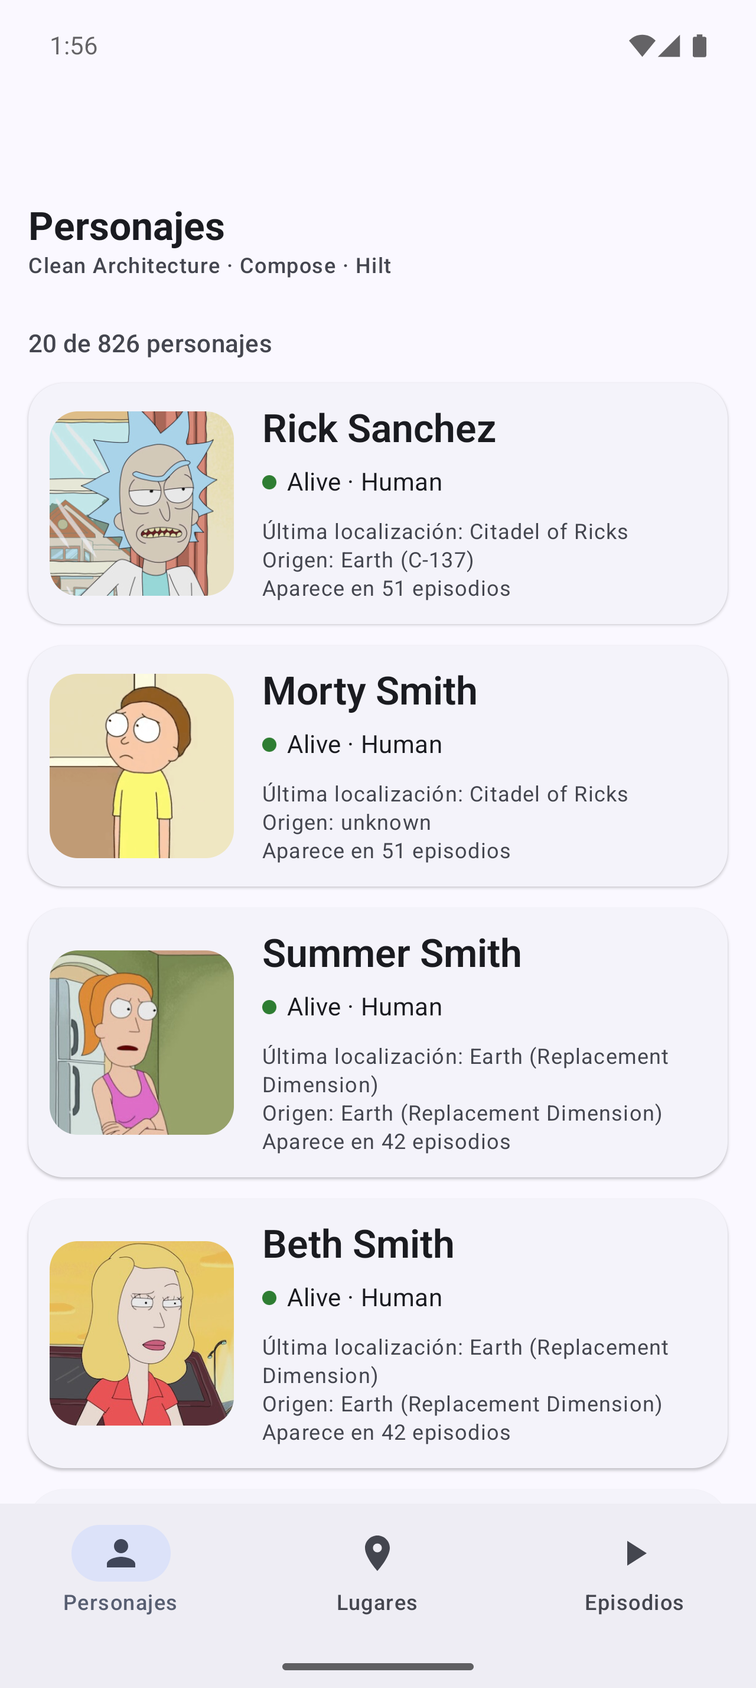
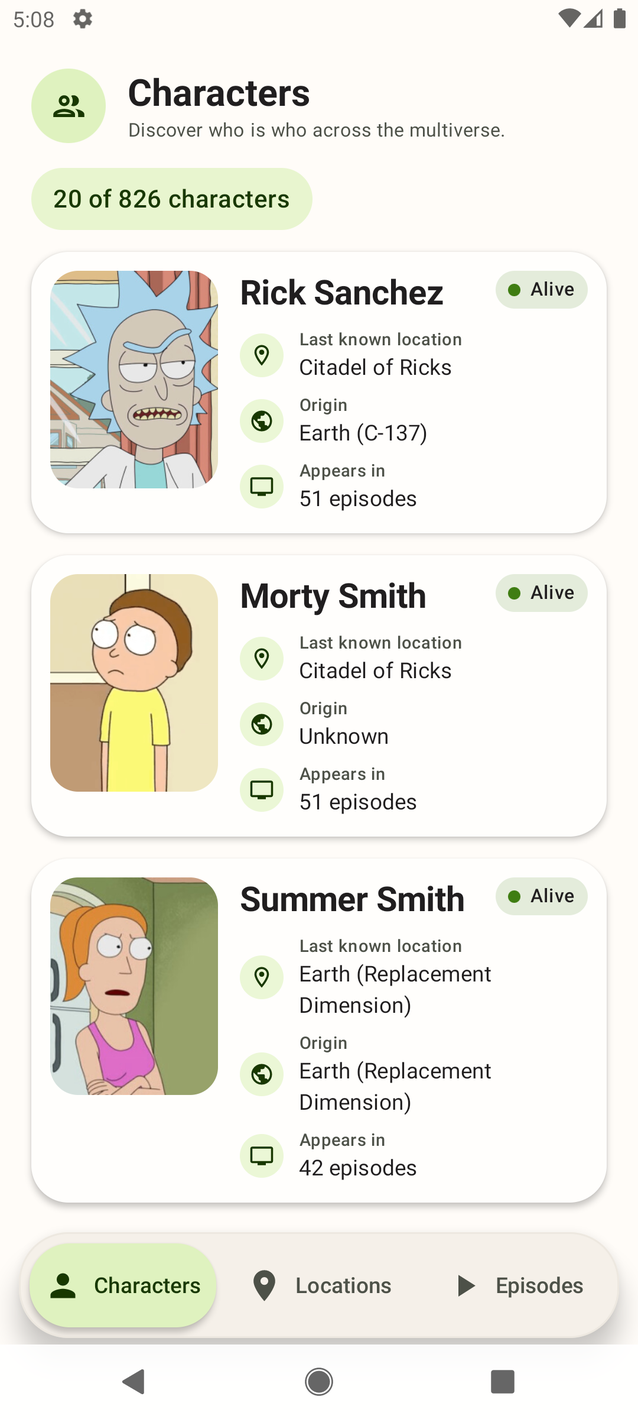
docs: align architecture testing and visual evidence

diff --git a/README.md b/README.md
@@ -5,7 +5,7 @@
 A modular Android reference implementation built with Kotlin and Jetpack Compose,
 focused on explicit boundaries, unidirectional data flow and testable architecture.
 
-[![Android CI](https://github.com/Deiivid/Clean_Arquitecture_Compose/actions/workflows/ci.yml/badge.svg)](https://github.com/Deiivid/Clean_Arquitecture_Compose/actions/workflows/ci.yml)
+[![Android CI](https://github.com/Deiivid/Android-Clean-Architecture-Sample/actions/workflows/ci.yml/badge.svg)](https://github.com/Deiivid/Android-Clean-Architecture-Sample/actions/workflows/ci.yml)
 ![Android API](https://img.shields.io/badge/Android-API_30--36-3DDC84?logo=android&logoColor=white)
 ![Kotlin](https://img.shields.io/badge/Kotlin-2.2.10-7F52FF?logo=kotlin&logoColor=white)
 ![Jetpack Compose](https://img.shields.io/badge/Jetpack_Compose-BOM_2026.06.01-4285F4?logo=jetpackcompose&logoColor=white)
@@ -28,9 +28,19 @@ focused on explicit boundaries, unidirectional data flow and testable architectu
     <td align="center"><strong>Locations</strong></td>
     <td align="center"><strong>Episodes</strong></td>
   </tr>
+  <tr>
+    <td><img src="docs/images/character-detail.png" width="260" alt="Character detail screen"></td>
+    <td><img src="docs/images/location-detail.png" width="260" alt="Location detail screen"></td>
+    <td><img src="docs/images/episode-detail.png" width="260" alt="Episode detail screen"></td>
+  </tr>
+  <tr>
+    <td align="center"><strong>Character detail</strong></td>
+    <td align="center"><strong>Location detail</strong></td>
+    <td align="center"><strong>Episode detail</strong></td>
+  </tr>
 </table>
 
-The app consumes the three catalog resources exposed by the public Rick and Morty API. Each destination owns its state, pagination and retry behavior while the bottom navigation preserves destination state.
+The app consumes the three catalog resources exposed by the public Rick and Morty API. Each destination owns its state, automatic pagination and retry behavior while route-based navigation preserves destination state. Selecting any character, location or episode opens a detail route from the already loaded model, without a second backend request.
 
 ## Why this repository exists
 
@@ -38,11 +48,14 @@ This project is intentionally small enough to understand and structured enough t
 
 - Pure Kotlin model and domain modules with no Android framework dependency.
 - Repository contracts owned by the domain and implemented in the data layer.
+- Typed `CatalogResult`/`CatalogError` failures instead of leaking exceptions across boundaries.
 - Stateless Compose screens driven by immutable `StateFlow` UI state.
-- Server pagination with duplicate-request protection, append errors and retry.
+- Automatic server pagination with duplicate-request protection, append errors and retry.
+- Route-based Navigation Compose with nested list/detail flows for every catalog.
 - Explicit DTO-to-domain mappers instead of leaking network models into the UI.
+- Spanish/English resource-backed copy, localized API values, large-text layouts and TalkBack semantics.
 - Environment-aware configuration without committing local credentials.
-- Automated unit, lint and assembly gates in GitHub Actions.
+- JVM, instrumented Compose, lint, static-analysis, formatting, coverage and assembly checks.
 - Design, testing and AI-agent instructions versioned with the code.
 
 ## Architecture
@@ -51,7 +64,7 @@ The dependency rule points inward. Domain code does not know Retrofit, Compose, 
 
 ```mermaid
 flowchart LR
-    APP[":app<br/>composition root"] --> FEATURES[":feature:*<br/>Compose + ViewModels"]
+    APP[":app<br/>composition root + routes"] --> FEATURES[":feature:*<br/>Compose + ViewModels"]
     APP --> DATA[":core:data<br/>repositories + network"]
     APP --> DOMAIN[":core:domain<br/>contracts + use cases"]
     FEATURES --> DOMAIN
@@ -68,7 +81,7 @@ The presentation layer follows unidirectional data flow:
 
 ```text
 UI event → ViewModel → Use case → Repository contract → Repository implementation → API
-   UI  ← immutable UiState ←──────────────────────────────────────────────────────┘
+   UI  ← immutable UiState ← CatalogResult<Page<Model>, CatalogError> ←───────────┘
 ```
 
 Every feature handles initial loading, content, empty results, initial errors, incremental loading and retry without moving business logic into Composables.
@@ -77,10 +90,10 @@ Every feature handles initial loading, content, empty results, initial errors, i
 
 | Module | Responsibility | Key dependencies |
 |---|---|---|
-| `:app` | Application entry point, navigation, theme and runtime configuration | Features, data, domain |
-| `:feature:characters` | Character list UI, state and pagination | Domain, model |
-| `:feature:locations` | Location list UI, state and pagination | Domain, model |
-| `:feature:episodes` | Episode list UI, state and pagination | Domain, model |
+| `:app` | Composition root, route graph, bottom navigation, theme and runtime configuration | Features, data, domain |
+| `:feature:characters` | Character list/detail UI, state, pagination and accessibility semantics | Domain, model |
+| `:feature:locations` | Location list/detail UI, state, pagination and accessibility semantics | Domain, model |
+| `:feature:episodes` | Episode list/detail UI, state, pagination and accessibility semantics | Domain, model |
 | `:core:domain` | Repository contracts and use cases | Model only |
 | `:core:model` | Framework-free business entities | None |
 | `:core:data` | Retrofit service, DTOs, mappers, repositories and Hilt bindings | Domain, model |
@@ -94,19 +107,20 @@ Every feature handles initial loading, content, empty results, initial errors, i
 | Locations | `/location` | Paginated list with type and dimension metadata |
 | Episodes | `/episode` | Paginated list with code and air-date metadata |
 
-Failures cross the data boundary as `Result`; they are represented explicitly in UI state and never silently converted into an empty list.
+Failures cross the data boundary as `CatalogResult<Page<T>, CatalogError>`. Connectivity, HTTP, serialization and unexpected failures are finite domain values; coroutine cancellation is rethrown. Presentation receives typed errors, never raw exceptions, and never silently converts a failure into an empty list.
 
 ## Technology
 
 | Area | Selection |
 |---|---|
 | Language and runtime | Kotlin 2.2.10, Java 17 |
-| UI | Jetpack Compose, Material 3, Compose BOM 2026.06.01 |
+| UI and navigation | Jetpack Compose, Material 3, Navigation Compose 2.9.8, Compose BOM 2026.06.01 |
 | State and concurrency | ViewModel, StateFlow, Coroutines 1.11.0 |
 | Dependency injection | Hilt 2.60.1, KSP 2.3.10 |
 | Network | Retrofit 3.0.0, OkHttp 5.4.0, Gson |
 | Images | Coil 3.4.0 |
-| Testing | JUnit 4, Turbine, Coroutines Test, MockWebServer |
+| Testing | JUnit 4, Turbine, Coroutines Test, MockWebServer, Compose UI Test |
+| Quality | Android Lint, Detekt 1.23.8, KtLint Gradle 14.2.0, Kover 0.9.8 |
 | Build | AGP 9.0.0, Gradle 9.1.0, Android SDK 30–36 |
 
 The project uses AGP's built-in Kotlin support and the centralized Gradle version catalog at [`gradle/libs.versions.toml`](gradle/libs.versions.toml).
@@ -122,8 +136,8 @@ The project uses AGP's built-in Kotlin support and the centralized Gradle versio
 ### Build
 
 ```bash
-git clone https://github.com/Deiivid/Clean_Arquitecture_Compose.git
-cd Clean_Arquitecture_Compose
+git clone https://github.com/Deiivid/Android-Clean-Architecture-Sample.git
+cd Android-Clean-Architecture-Sample
 ./gradlew assembleDebug
 ```
 
@@ -168,10 +182,21 @@ This prevents accidental source-control exposure; it does not make values embedd
 The local and CI verification command is:
 
 ```bash
-./gradlew test lintDebug assembleDebug --warning-mode all
+./gradlew test lintDebug detekt ktlintCheck :koverVerify assembleDebug --warning-mode all
 ```
 
-The JVM suite currently verifies credential-header behavior, use-case delegation, initial ViewModel state and character pagination. GitHub Actions runs the same tests plus Android lint and a debug assembly on every push and pull request.
+The repository currently contains 52 JVM test cases and 11 instrumented Compose test cases. JVM coverage includes use-case delegation, complete DTO mapping, real Retrofit malformed/truncated responses, typed repository failures, cancellation propagation, credentials, save/restore round trips and every ViewModel transition for the three catalogs. Compose tests cover actionable grouped semantics, live-region loading announcements, bottom-navigation selection and its large-text/compact-width adaptations.
+
+Instrumented tests require a connected device or emulator and remain separate from the headless CI gate:
+
+```bash
+./gradlew :app:connectedDebugAndroidTest \
+  :feature:characters:connectedDebugAndroidTest \
+  :feature:locations:connectedDebugAndroidTest \
+  :feature:episodes:connectedDebugAndroidTest
+```
+
+Kover enforces a 60% minimum over an explicit application-logic scope: domain, data mappers/repositories, the credentials interceptor, feature UI-state models and ViewModels. Generated code, resources, themes and Compose screen rendering are excluded; UI behavior is verified separately with instrumented Compose tests. GitHub Actions runs the full headless gate and `secretsStatus` on every push and pull request.
 
 Engineering decisions are kept next to the implementation:
 
@@ -181,6 +206,6 @@ Engineering decisions are kept next to the implementation:
 
 ## Deliberate scope
 
-This reference focuses on modular architecture, remote catalogs, pagination, configuration and testability. It does not claim offline persistence, search, detail screens, user authentication or production credential storage.
+This reference focuses on modular architecture, remote catalogs, typed failures, pagination, route navigation, accessible Compose UI, configuration and testability. It does not claim offline persistence, search/filtering, user authentication, deep-link restoration of catalog details or production credential storage.
 
 Data is provided by the [Rick and Morty API](https://rickandmortyapi.com/). This educational project is not affiliated with the API or the television series.

diff --git a/docs/testing/TDD-rick-and-morty-catalog.md b/docs/testing/TDD-rick-and-morty-catalog.md
@@ -1,6 +1,6 @@
 # TDD — Rick and Morty catalog
 
-Test Design Document for [SDD version 1.0](../specs/SDD-rick-and-morty-catalog.md). Development follows the test-first loop: reproduce or specify a failing behavior, implement the smallest change, then refactor while the suite remains green.
+Test Design Document for [SDD version 1.3](../specs/SDD-rick-and-morty-catalog.md). Development follows the test-first loop: reproduce or specify a failing behavior, implement the smallest change, then refactor while the suite remains green.
 
 ## Test strategy
 
@@ -15,30 +15,59 @@ No test may assert, snapshot or print a real credential value.
 
 | Criterion | Evidence | Module | Current status |
 |---|---|---|---|
-| `AC-001` | Navigate all destinations; verify resource content | `app` + features | Manual smoke |
-| `AC-002` | ViewModel loading/content tests; add empty/error cases | `feature:*` | Partial automation |
-| `AC-003` | Failure followed by `retry()` requests page 1 again | `feature:*` | Planned |
-| `AC-004` | Append next page and reject duplicate/end-of-list loads | `feature:*` | Characters automated; others partial |
-| `AC-005` | Load-more failure preserves content and marks retry state | `feature:*` | Planned |
+| `AC-001` | Navigate all destinations; verify resource content | `app` + features | Feature states automated; API 30 real-backend smoke passed |
+| `AC-002` | Loading resolves to content, empty or typed error | `feature:*` | Automated for all three ViewModels |
+| `AC-003` | Failure followed by `retry()` requests page 1 again | `feature:*` | Automated for all three ViewModels |
+| `AC-004` | Append next page and reject duplicate/end-of-list loads | `feature:*` | Automated for all three ViewModels |
+| `AC-005` | Load-more failure preserves content and marks retry state | `feature:*` | Automated for all three ViewModels |
 | `AC-006` | Present and blank credential header cases | `core:data` | Automated |
 | `AC-007` | Header redaction review; Gradle tasks report names/sources only | `core:data` + build | Automated plus review |
 | `AC-008` | Unit tests, lint and debug assembly | whole project | CI gate |
+| `AC-009` | Tap a character, verify its fields and back navigation | `feature:characters` + `app` | Card action automated; API 30 detail/back smoke passed |
+| `AC-010` | Data-boundary error mapping and cancellation propagation tests | `core:data` + `core:domain` | Automated |
+| `AC-011` | Switch destinations and verify selected route/state restoration | `app` | Selection and model saver round trips automated; API 30 route restoration smoke passed |
+| `AC-012` | Assert grouped item semantics and announced state descriptions | `feature:*` | Grouping/loading automated; API 30 error/retry smoke passed |
+| `AC-013` | Detekt, formatting, coverage verification and assembly | whole project | CI gate |
+| `AC-014` | Scroll near the end and verify automatic, idempotent pagination | `feature:*` | ViewModel automation; API 30 pagination smoke passed |
+| `AC-015` | Open location and episode details, verify fields and back restoration | `feature:*` + `app` | Card actions automated; API 30 detail/back smoke passed |
+| `AC-016` | Verify artwork IDs 1–126 are unique resources and observe the header marker at two animation frames | `feature:locations` | Resolver automation plus API 30 visual smoke |
+| `AC-017` | Scroll each catalog, reselect its active bottom-navigation item and verify the first item is restored | `app` + `feature:*` | API 30 interaction smoke |
+| `AC-018` | Open Alive, Dead and Unknown character details; capture two frames and verify distinct status effects without portrait occlusion or layout movement | `feature:characters` | Status mapping automated plus API 30 visual smoke |
+| `AC-019` | Verify all detail backgrounds cover the viewport and portrait overrides resolve ahead of list artwork | `feature:locations` | Resolver automation plus API 30 visual smoke |
+| `AC-020` | Open a location detail and verify the centered framed header, title placement and lack of overlap | `feature:locations` | API 30 visual smoke |
 
 ## Required test cases for new resource behavior
 
-- Use case delegates the requested page and returns the repository `Result` unchanged.
+- Use case delegates the requested page and returns the repository `CatalogResult` unchanged.
 - Mapper converts every backend field used by the domain model and pagination metadata.
-- Repository wraps HTTP or mapping failures in `Result.failure`.
+- Repository classifies connectivity, HTTP, serialization and unexpected failures without swallowing cancellation.
 - ViewModel covers initial content, empty, error, retry, next page, duplicate next-page request, last page and load-more failure.
 - Screen semantics expose retry/action labels and stable list identity.
+- Root navigation derives selection from the active route and restores destination state.
+- Large-font and dark-theme previews cover every catalog and detail screen.
 
 ## CI gate
 
 ```bash
-./gradlew test lintDebug assembleDebug --warning-mode all
+./gradlew test lintDebug detekt ktlintCheck :koverVerify assembleDebug --warning-mode all
 ```
 
 CI must also run `secretsStatus` to prove configuration wiring without requiring credentials on pull requests from forks.
+
+Kover verifies at least 60% line coverage over the configured application-logic scope: domain, data mappers/repositories, the credentials interceptor, feature UI-state models and ViewModels. Generated code, resources, themes and Compose screen rendering are excluded deliberately; instrumented UI tests provide separate evidence.
+
+## Instrumented Compose gate
+
+With a connected device or emulator:
+
+```bash
+./gradlew :app:connectedDebugAndroidTest \
+  :feature:characters:connectedDebugAndroidTest \
+  :feature:locations:connectedDebugAndroidTest \
+  :feature:episodes:connectedDebugAndroidTest
+```
+
+These tests verify bottom-navigation selection and its large-text/compact-width adaptations, actionable grouped catalog semantics and polite loading announcements. They do not replace the real-backend and interruption scenarios below.
 
 ## Emulator smoke checklist
 
@@ -46,7 +75,35 @@ CI must also run `secretsStatus` to prove configuration wiring without requiring
 - API 36: repeat navigation and pagination; verify edge-to-edge layout.
 - Disable network: verify initial error and retry.
 - Interrupt page 2: verify page 1 remains visible and retry succeeds.
+- Open a character, verify every displayed field, press back and verify the list and bottom navigation are restored.
+- Scroll each catalog to its end and verify the next page loads without a manual button.
+- Open a location and an episode, verify their detail fields, then press back and verify list restoration.
+- Scroll through locations, verify that all 126 identifiers resolve to distinct artwork, and capture the header marker at two animation frames without layout movement.
+- Scroll each catalog away from the header, press its selected bottom-navigation item again and verify a smooth return to the first item.
+- Open Alive, Dead and Unknown character details and verify their live, stopped and quantum biometric animations at two frames without portrait occlusion.
+- Open representative portrait and landscape-backed location details; verify edge-to-edge coverage, sharp filtering and readable overlays.
+- Open a location detail and verify the centered framed header remains separate from the back action, with the location name directly below and no overlap.
+- Enable a large system font and dark theme: verify list/detail readability, touch targets and that no content is clipped.
 
 ## Evidence record
 
 For each release or architectural change record the command/device, result, failing test if any and the affected `AC-*` identifiers. Never replace missing evidence with an assumption.
+
+### 2026-07-20 — `emulator-5556`, Android 11 (API 30)
+
+- PASS: debug installation, all three destinations and real-backend content (`AC-001`).
+- PASS: character, location and episode list → detail → back, preserving the selected destination (`AC-009`, `AC-011`, `AC-015`).
+- PASS: automatic pagination from 20 to 60 characters and from 20 to 51 episodes; transient append failure recovered through retry (`AC-004`, `AC-005`, `AC-014`).
+- PASS: offline initial state exposed a specific error and retry restored the first 20 characters (`AC-003`, `AC-012`).
+- PASS: Alive, Dead and Unknown character details rendered distinct animated biometric states without covering the portrait or moving the layout (`AC-018`).
+- PASS: all 126 location backgrounds resolved with high-quality full-viewport rendering; Hideout Planet used its dedicated portrait asset on API 30 (`AC-019`).
+- PASS: location detail rendered its centered framed header and location name directly below without overlap (`AC-020`).
+- PASS: zero package crashes, FATAL entries or ANRs in Logcat.
+- Pending: repeat the platform smoke test on API 36, including edge-to-edge, large-font and dark-theme checks.
+
+### 2026-07-21 — `emulator-5556`, Android 11 (API 30)
+
+- PASS: all 52 JVM tests and 11 instrumented Compose tests completed successfully (`AC-013`).
+- PASS: all 126 location identifiers resolve to distinct themed artwork resources (`AC-016`).
+- PASS: the header marker moves vertically between captured frames while the title, count and list remain fixed (`AC-016`).
+- PASS: reselecting Characters, Locations or Episodes after scrolling restores the corresponding header (`AC-017`).

diff --git a/docs/specs/SDD-rick-and-morty-catalog.md b/docs/specs/SDD-rick-and-morty-catalog.md
@@ -5,7 +5,7 @@ Software Design Document. This is the source of truth for product behavior and a
 | Field | Value |
 |---|---|
 | Status | Implemented |
-| Version | 1.0 |
+| Version | 1.3 |
 | Platforms | Android API 30–36 |
 | Backend | Rick and Morty REST API |
 | Owner | Repository maintainers |
@@ -17,7 +17,7 @@ Provide a backend-driven Compose catalog for every public Rick and Morty resourc
 ## Out of scope
 
 - Authentication or production credential storage.
-- Offline persistence, search, filters and detail screens.
+- Offline persistence, search and filters.
 - Cross-feature business rules.
 - Treating values embedded in an APK as secret.
 
@@ -26,11 +26,19 @@ Provide a backend-driven Compose catalog for every public Rick and Morty resourc
 - `FR-001` — The root UI exposes Characters, Locations and Episodes as independent destinations.
 - `FR-002` — Entering a destination requests page 1 of its matching backend resource.
 - `FR-003` — Every destination represents loading, content, empty and initial-load error states and offers retry after error.
-- `FR-004` — Content exposes server totals and can append subsequent pages until the server-reported last page.
+- `FR-004` — Content exposes server totals and automatically appends subsequent pages when the user approaches the end of the list, until the server-reported last page.
 - `FR-005` — A load-more request cannot run twice concurrently. A load-more failure keeps current content and allows retry.
 - `FR-006` — Switching destinations preserves the saveable UI state of each destination.
 - `FR-007` — Blank credentials are omitted. Configured credentials become request headers and those headers are redacted from HTTP logs.
 - `FR-008` — The base URL and demo credentials can be supplied by environment variables without storing their values in Git.
+- `FR-009` — Selecting a character opens a detail destination backed by the already loaded domain model; back returns to the preserved character list.
+- `FR-010` — Data failures are translated into a finite domain error model. Cancellation is propagated and presentation never receives a raw exception.
+- `FR-011` — Root destinations use route-based navigation with a single source of truth for selection and state restoration.
+- `FR-012` — Loading, error and incremental-loading changes are announced to accessibility services; repeated cards expose concise grouped semantics.
+- `FR-013` — User-facing labels are localized and layouts remain usable with large text and dark theme.
+- `FR-014` — Selecting a location or episode opens its detail destination from the loaded domain model; back restores the corresponding list.
+- `FR-015` — Character detail visualizes status without covering the portrait: a live heartbeat for Alive, a stopped heartbeat for Dead and an unstable quantum orbit for Unknown.
+- `FR-016` — Location detail renders every artwork edge to edge with high-quality filtering and prefers a dedicated portrait asset when one is available.
 
 ## Design
 
@@ -42,7 +50,7 @@ Compose event
   → Data repository implementation
   → Retrofit API / DTO
   → explicit mapper
-  → Result<Page<DomainModel>>
+  → CatalogResult<Page<DomainModel>, CatalogError>
   → immutable UiState
 ```
 
@@ -64,17 +72,31 @@ This prevents accidental source-control exposure only. Long-lived private creden
 - `AC-006` — Empty credential values produce no credential headers; configured values produce the four documented headers.
 - `AC-007` — No credential value is printed by Gradle tasks, CI or OkHttp logging.
 - `AC-008` — The project compiles with compile/target SDK 36, min SDK 30 and Java 17.
+- `AC-009` — Tapping a character shows its portrait, status, species, gender, origin, last known location, episode count and identifier; back restores the catalog and bottom navigation.
+- `AC-010` — Connectivity, HTTP, serialization and unexpected failures map to typed domain errors; coroutine cancellation is never converted into a failure value.
+- `AC-011` — Bottom-navigation selection follows the active route and restores destination state after switching tabs or returning from detail.
+- `AC-012` — TalkBack can identify each catalog item as one coherent unit and receives loading/error state announcements.
+- `AC-013` — The quality gate runs unit tests, Android lint, Detekt, Kotlin formatting checks, coverage verification and debug assembly.
+- `AC-014` — Character, location and episode lists have no manual load-more action; reaching the list threshold triggers one idempotent next-page request.
+- `AC-015` — Location detail shows name, type, dimension, resident count and identifier; episode detail shows name, code, air date, character count and identifier.
+- `AC-016` — Each of the 126 backend locations resolves to its own themed artwork, and the locations header marker floats vertically without moving the surrounding content.
+- `AC-017` — Pressing the already-selected bottom-navigation destination scrolls its catalog smoothly back to the first item.
+- `AC-018` — Character detail maps Alive, Dead and Unknown to distinct animated biometric treatments while keeping the portrait readable and the layout stationary.
+- `AC-019` — All 126 location detail backgrounds cover the viewport without empty bands; dedicated portrait artwork is selected ahead of its landscape catalog source.
+- `AC-020` — Location detail centers its screen label inside a large framed header and places the location name immediately below it without overlap.
 
 ## Non-functional requirements
 
 - UI follows unidirectional data flow and lifecycle-aware state collection.
 - Domain/model remain Android-free and unit-testable on the JVM.
 - Dependency versions are centralized and stable.
-- CI runs unit tests, lint and debug assembly with read-only repository permissions.
+- CI runs unit tests, lint, static analysis, formatting, scoped coverage verification and debug assembly with read-only repository permissions.
+- Static analysis, formatting and coverage thresholds are executable locally and in CI.
+- Kover measures an explicit application-logic scope: domain, data mappers/repositories, the credentials interceptor, feature UI-state models and ViewModels. Generated code, resources, themes and Compose rendering are outside that metric and use separate checks.
 
 ## Definition of done
 
 1. Changed behavior has updated `FR-*`/`AC-*` entries.
 2. The TDD maps affected acceptance criteria to automated or explicit manual evidence.
 3. No forbidden module dependency or credential exposure is introduced.
-4. `./gradlew test lintDebug assembleDebug --warning-mode all` passes.
+4. `./gradlew test lintDebug detekt ktlintCheck :koverVerify assembleDebug --warning-mode all` passes.

diff --git a/AGENTS.md b/AGENTS.md
@@ -39,7 +39,7 @@ app ──> feature:* ──> core:domain ──> core:model
 Use the narrowest useful task while iterating. Before handoff of cross-module changes run:
 
 ```bash
-./gradlew test lintDebug assembleDebug --warning-mode all
+./gradlew test lintDebug detekt ktlintCheck :koverVerify assembleDebug --warning-mode all
 ```
 
 Do not report a command as passing unless it actually ran.
